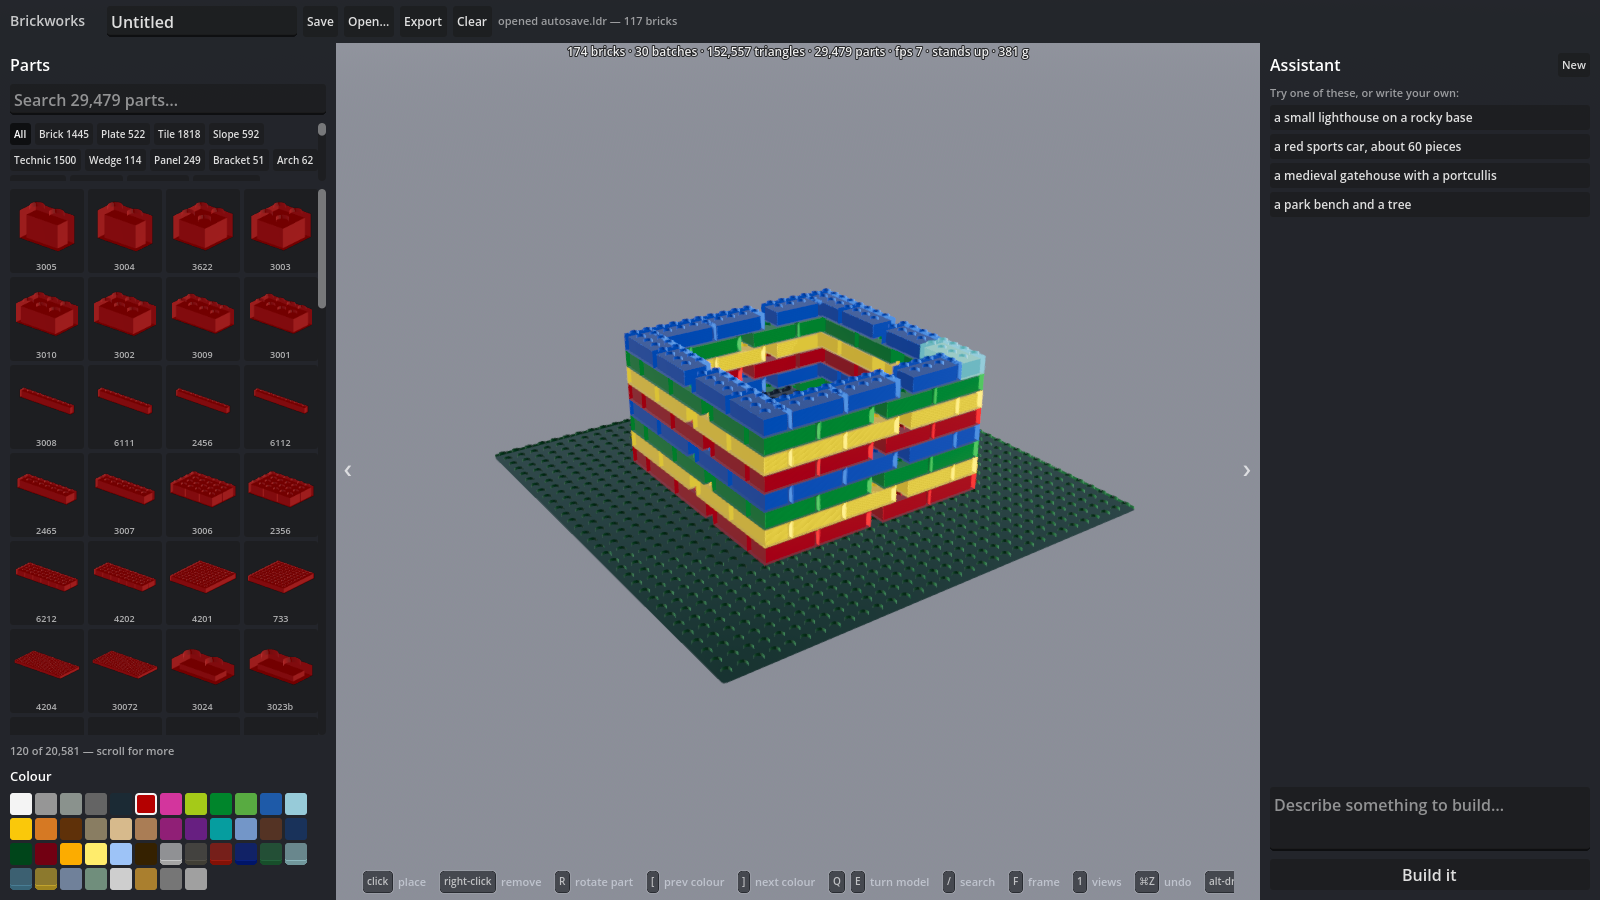
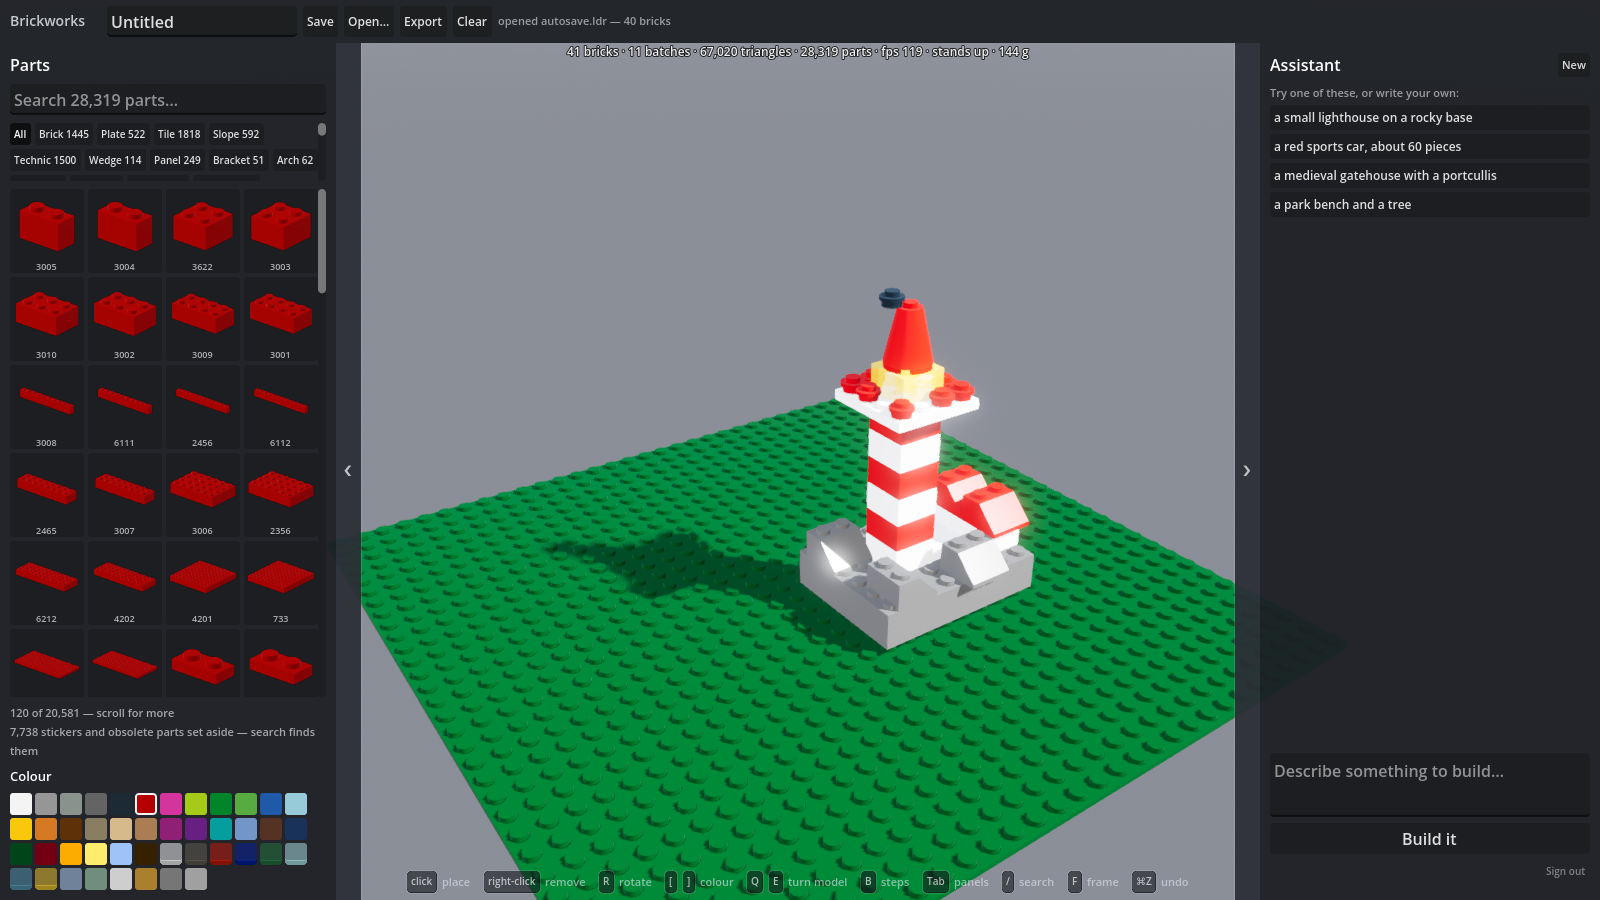
Put the assistant's own work on the landing page
The screenshot was of a hollow box of alternating courses — a thing I
made to test the renderer, not a thing anyone would want to build — and
it was stale besides: the old key strip, the old part count, no build
steps. It now shows the lighthouse the assistant designed, which is both
current and the better argument.

diff --git a/web/index.html b/web/index.html
@@ -298,7 +298,7 @@ footer p { margin: 0 0 8px; max-width: 76ch; }
 
 		<div class="shot">
 			<img src="shot-app.png" width="1600" height="900"
-				alt="The Brickworks builder: a parts panel on the left listing thousands of parts with 3D previews, a model on a green baseplate in the centre, and the design assistant on the right.">
+				alt="The Brickworks builder: a parts panel on the left listing thousands of parts with 3D previews, a red and white lighthouse standing on a green baseplate in the centre, and the design assistant on the right. The lighthouse was designed by the assistant.">
 		</div>
 	</div>
 
